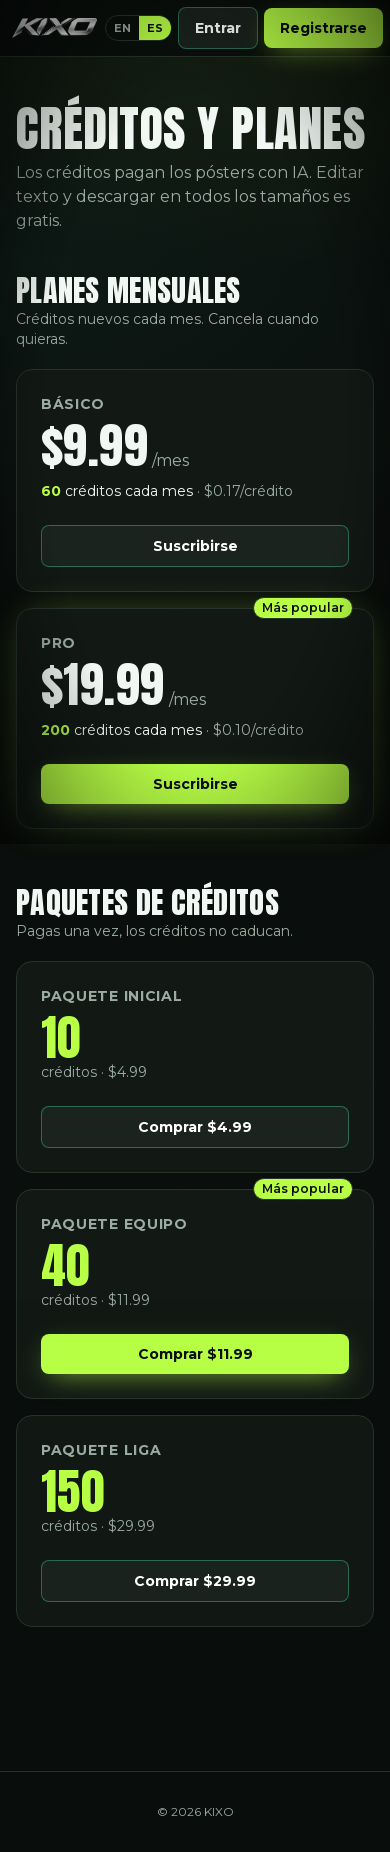
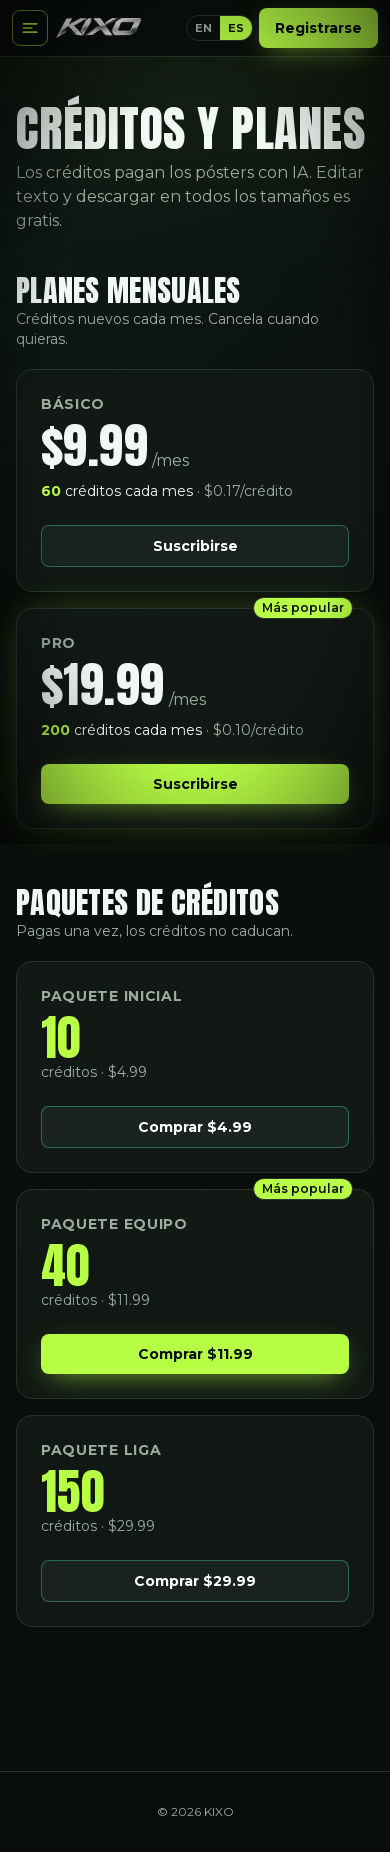
ci-results

diff --git a/src/components/SideMenu.tsx b/src/components/SideMenu.tsx
@@ -1,0 +1,141 @@
+"use client";
+
+import Link from "next/link";
+import { usePathname } from "next/navigation";
+import { useEffect, useState } from "react";
+
+const P = {
+  create: <path d="M12 5v14M5 12h14" />,
+  home: <path d="M3 10.5 12 3l9 7.5V20a1 1 0 0 1-1 1h-5v-6H9v6H4a1 1 0 0 1-1-1z" />,
+  explore: <><circle cx="12" cy="12" r="9" /><path d="m15.5 8.5-2 5-5 2 2-5z" /></>,
+  team: <><circle cx="9" cy="8" r="3.2" /><circle cx="17" cy="9" r="2.4" /><path d="M3 20c.5-3.3 3-5.2 6-5.2s5.5 1.9 6 5.2M15.5 14.6c2.6.1 4.6 1.8 5 4.6" /></>,
+  history: <><circle cx="12" cy="12" r="9" /><path d="M12 7v5l3 2" /></>,
+  pricing: <path d="M20.6 13.4 13.4 20.6a2 2 0 0 1-2.8 0L3 13V3h10l7.6 7.6a2 2 0 0 1 0 2.8zM7.5 7.5h.01" />,
+  credits: <><circle cx="12" cy="12" r="9" /><path d="M13 7 9 13h3l-1 4 4-6h-3z" /></>,
+  invite: <><rect x="3" y="8" width="18" height="13" rx="2" /><path d="M12 8v13M3 12h18M12 8c-1.5-3-5-4-5-1.5S10 8 12 8zm0 0c1.5-3 5-4 5-1.5S14 8 12 8z" /></>,
+  profile: <><circle cx="12" cy="8" r="4" /><path d="M4 21c.8-4 4-6.5 8-6.5s7.2 2.5 8 6.5" /></>,
+  admin: <path d="M12 3 4 6v6c0 5 3.4 8.4 8 9 4.6-.6 8-4 8-9V6zM9 12l2 2 4-4" />,
+  deals: <><path d="M20 12v8a1 1 0 0 1-1 1H5a1 1 0 0 1-1-1v-8" /><path d="M2 7h20v5H2zM12 21V7" /></>,
+};
+type IconName = keyof typeof P;
+export type MenuItem = { href: string; label: string; icon: IconName; badge?: string; badgeStyle?: "lime" | "teal" | "button"; primary?: boolean };
+
+const Icon = ({ name, className = "h-6 w-6" }: { name: IconName; className?: string }) => (
+  <svg viewBox="0 0 24 24" fill="none" stroke="currentColor" strokeWidth={1.8} strokeLinecap="round" strokeLinejoin="round" className={`shrink-0 ${className}`} aria-hidden>
+    {P[name]}
+  </svg>
+);
+
+/** Hamburger button + slide-in side menu. */
+export function SideMenu({
+  items,
+  footer,
+  site,
+}: {
+  items: MenuItem[];
+  site: string;
+  footer: { loggedIn: boolean; title: string; text: string; cta: string; ctaHref: string; credits?: number; name?: string; email?: string };
+}) {
+  const [open, setOpen] = useState(false);
+  const path = usePathname() || "/";
+
+  useEffect(() => setOpen(false), [path]);
+  useEffect(() => {
+    if (!open) return;
+    const prev = document.body.style.overflow;
+    document.body.style.overflow = "hidden";
+    const onKey = (e: KeyboardEvent) => e.key === "Escape" && setOpen(false);
+    window.addEventListener("keydown", onKey);
+    return () => {
+      document.body.style.overflow = prev;
+      window.removeEventListener("keydown", onKey);
+    };
+  }, [open]);
+
+  const active = (href: string) => (href === "/" ? path === "/" : path === href.split("?")[0] && !href.includes("?"));
+
+  return (
+    <>
+      <button type="button" aria-label="Menu" aria-expanded={open} onClick={() => setOpen(true)} className="grid h-9 w-9 shrink-0 place-items-center rounded-lg border border-line text-white transition hover:border-lime/60 hover:text-lime sm:h-10 sm:w-10">
+        <svg viewBox="0 0 24 24" className="h-5 w-5" fill="none" stroke="currentColor" strokeWidth={2} strokeLinecap="round" aria-hidden>
+          <path d="M4 7h16M4 12h10M4 17h16" />
+        </svg>
+      </button>
+
+      <div className={`fixed inset-0 z-[70] transition ${open ? "pointer-events-auto" : "pointer-events-none"}`} aria-hidden={!open}>
+        <div className={`absolute inset-0 bg-black/70 backdrop-blur-sm transition-opacity duration-300 ${open ? "opacity-100" : "opacity-0"}`} onClick={() => setOpen(false)} />
+        <aside
+          role="dialog"
+          aria-label="Menu"
+          className={`absolute inset-y-0 left-0 flex w-[86%] max-w-[360px] flex-col border-r border-line bg-[#0b100d] shadow-[30px_0_80px_-20px_rgba(0,0,0,0.9)] transition-transform duration-300 ease-[cubic-bezier(0.2,0.8,0.2,1)] ${open ? "translate-x-0" : "-translate-x-full"}`}
+        >
+          <div className="pointer-events-none absolute -top-24 -left-24 h-64 w-64 rounded-full bg-lime/10 blur-3xl" />
+          <div className="relative flex items-center justify-between border-b border-line px-5 py-4">
+            <Link href="/" className="flex items-center gap-2.5" onClick={() => setOpen(false)}>
+              {/* eslint-disable-next-line @next/next/no-img-element */}
+              <img src="/kixo-hero-logo.webp" alt="" className="h-9 w-auto" />
+              {/* eslint-disable-next-line @next/next/no-img-element */}
+              <img src="/kixo-logo.png" alt={site} className="h-6 w-auto" />
+            </Link>
+            <button type="button" aria-label="Close" onClick={() => setOpen(false)} className="grid h-9 w-9 place-items-center rounded-lg border border-line text-muted hover:text-white">
+              <svg viewBox="0 0 24 24" className="h-5 w-5" fill="none" stroke="currentColor" strokeWidth={2} strokeLinecap="round" aria-hidden>
+                <path d="M6 6l12 12M18 6 6 18" />
+              </svg>
+            </button>
+          </div>
+
+          <nav className="relative flex-1 space-y-1 overflow-y-auto px-3 py-4">
+            {items.map((it, i) => {
+              const on = active(it.href);
+              return (
+                <Link
+                  key={it.href + it.label}
+                  href={it.href}
+                  onClick={() => setOpen(false)}
+                  style={{ transitionDelay: open ? `${60 + i * 35}ms` : "0ms" }}
+                  className={`flex items-center gap-4 rounded-2xl px-4 py-3.5 text-[17px] font-semibold transition-all duration-300 ${open ? "translate-x-0 opacity-100" : "-translate-x-4 opacity-0"} ${
+                    it.primary
+                      ? "border border-lime/30 bg-gradient-to-r from-lime/15 to-transparent text-lime"
+                      : on
+                        ? "bg-panel-2 text-white"
+                        : "text-white/90 hover:bg-panel-2"
+                  }`}
+                >
+                  <Icon name={it.icon} />
+                  <span className="flex-1">{it.label}</span>
+                  {it.badge &&
+                    (it.badgeStyle === "button" ? (
+                      <span className="rounded-full bg-lime px-3.5 py-1.5 text-sm font-bold text-ink">{it.badge}</span>
+                    ) : (
+                      <span className={`-skew-x-12 rounded-md px-2 py-0.5 text-xs font-black italic ${it.badgeStyle === "teal" ? "bg-teal text-ink" : "bg-lime text-ink"}`}>{it.badge}</span>
+                    ))}
+                </Link>
+              );
+            })}
+          </nav>
+
+          <div className="relative border-t border-line p-5">
+            {footer.loggedIn ? (
+              <Link href="/profile" onClick={() => setOpen(false)} className="mb-3 flex items-center gap-3">
+                <span className="grid h-10 w-10 shrink-0 place-items-center rounded-full bg-lime font-extrabold text-ink">{(footer.name || "K")[0].toUpperCase()}</span>
+                <span className="min-w-0 flex-1">
+                  <span className="block truncate font-bold">{footer.name}</span>
+                  <span className="block truncate text-xs text-muted">{footer.email}</span>
+                </span>
+                <span className="rounded-full border border-lime/40 bg-lime/10 px-2.5 py-1 text-xs font-bold text-lime">⚡ {footer.credits}</span>
+              </Link>
+            ) : (
+              <>
+                <div className="font-bold">{footer.title}</div>
+                <p className="mt-1 text-sm text-muted">{footer.text}</p>
+              </>
+            )}
+            <Link href={footer.ctaHref} onClick={() => setOpen(false)} className="mt-4 flex w-full items-center justify-center rounded-full bg-white py-3.5 text-base font-bold text-ink transition hover:bg-lime">
+              {footer.cta}
+            </Link>
+          </div>
+        </aside>
+      </div>
+    </>
+  );
+}

diff --git a/src/components/Header.tsx b/src/components/Header.tsx
@@ -3,6 +3,8 @@ import { getCurrentUser } from "@/lib/auth";
 import { getT } from "@/i18n/server";
 import { LangSwitch } from "./LangSwitch";
 import { NavLinks } from "./NavLinks";
+import { SideMenu, type MenuItem } from "./SideMenu";
+import { getNumberSetting } from "@/lib/settings";
 
 const site = process.env.NEXT_PUBLIC_SITE_NAME || "KIXO";
 
@@ -20,9 +22,47 @@ export async function Header() {
     ...(user?.role === "ADMIN" ? [{ href: "/admin", label: t("nav_admin"), icon: "admin" as const, admin: true }] : []),
   ];
 
+  const es = locale === "es";
+  const reward = await getNumberSetting("referral_reward").catch(() => 0);
+  const menu: MenuItem[] = user
+    ? [
+        { href: "/create", label: es ? "Crear" : "Create", icon: "create", primary: true },
+        { href: "/dashboard", label: es ? "Inicio" : "Home", icon: "home" },
+        { href: "/create?team=1", label: es ? "Tarjetas del equipo" : "Team cards", icon: "team", badge: es ? "NUEVO" : "NEW" },
+        { href: "/history", label: es ? "Historial" : "History", icon: "history" },
+        { href: "/credits", label: es ? "Créditos" : "Credits", icon: "credits" },
+        { href: "/pricing", label: es ? "Precios" : "Pricing", icon: "pricing" },
+        { href: "/invite", label: es ? "Invita y gana" : "Invite & earn", icon: "invite", ...(reward > 0 ? { badge: `+${reward}`, badgeStyle: "teal" as const } : {}) },
+        { href: "/profile", label: es ? "Perfil" : "Profile", icon: "profile" },
+        ...(user.role === "ADMIN" ? [{ href: "/admin", label: "Admin", icon: "admin" as const, badge: es ? "Abrir" : "Open", badgeStyle: "button" as const }] : []),
+      ]
+    : [
+        { href: "/register", label: es ? "Crear" : "Create", icon: "create", primary: true },
+        { href: "/", label: es ? "Inicio" : "Home", icon: "home" },
+        { href: "/#styles", label: es ? "Explorar estilos" : "Explore styles", icon: "explore" },
+        { href: "/pricing", label: es ? "Precios" : "Pricing", icon: "pricing" },
+        { href: "/register", label: es ? "Créditos gratis" : "Free credits", icon: "deals", badge: es ? "GRATIS" : "FREE" },
+        { href: "/login", label: es ? "Entrar" : "Log in", icon: "profile" },
+      ];
+
   return (
     <header className="sticky top-0 z-40 border-b border-line bg-ink/85 backdrop-blur">
       <div className="mx-auto flex h-14 max-w-6xl items-center gap-2 px-3 sm:h-16 sm:gap-3 sm:px-4">
+        <SideMenu
+          site={site}
+          items={menu}
+          footer={
+            user
+              ? { loggedIn: true, title: "", text: "", cta: es ? "⚡ Conseguir créditos" : "⚡ Get credits", ctaHref: "/pricing", credits: user.credits, name: user.name, email: user.email }
+              : {
+                  loggedIn: false,
+                  title: es ? "Dale vida a tus ideas" : "Bring your ideas to life",
+                  text: es ? "Regístrate para crear, guardar tus artes y verlos cuando quieras." : "Sign up to create, save your arts and access them anytime.",
+                  cta: es ? "Registrarse" : "Sign up",
+                  ctaHref: "/register",
+                }
+          }
+        />
         <Link href="/" className="flex shrink-0 items-center" aria-label={site}>
           {/* eslint-disable-next-line @next/next/no-img-element */}
           <img src="/kixo-logo.png" alt={site} className="h-5 w-auto min-[400px]:h-6 sm:h-8" />
@@ -47,7 +87,9 @@ export async function Header() {
             </>
           ) : (
             <>
-              <Link href="/login" className="btn-ghost shrink-0 whitespace-nowrap px-2 py-1.5 text-xs sm:px-3">{t("nav_login")}</Link>
+              <span className="hidden min-[420px]:block">
+                <Link href="/login" className="btn-ghost shrink-0 whitespace-nowrap px-2 py-1.5 text-xs sm:px-3">{t("nav_login")}</Link>
+              </span>
               <Link href="/register" className="btn-primary shrink-0 whitespace-nowrap px-2 py-1.5 text-xs sm:px-3">{t("nav_register")}</Link>
             </>
           )}

diff --git a/src/app/page.tsx b/src/app/page.tsx
@@ -57,7 +57,7 @@ export default async function Home() {
 
       {/* Styles gallery — only styles with a real sample image */}
       {gallery.length >= 2 && (
-        <section className="border-y border-line bg-panel/30">
+        <section id="styles" className="scroll-mt-20 border-y border-line bg-panel/30">
           <div className="mx-auto max-w-6xl px-4 py-14 sm:py-20">
             <div className="flex items-end justify-between gap-4">
               <h2 data-reveal className="font-display text-4xl sm:text-5xl"><span className="gold-text kixo-chapter">{t("styles_title")}</span></h2>
